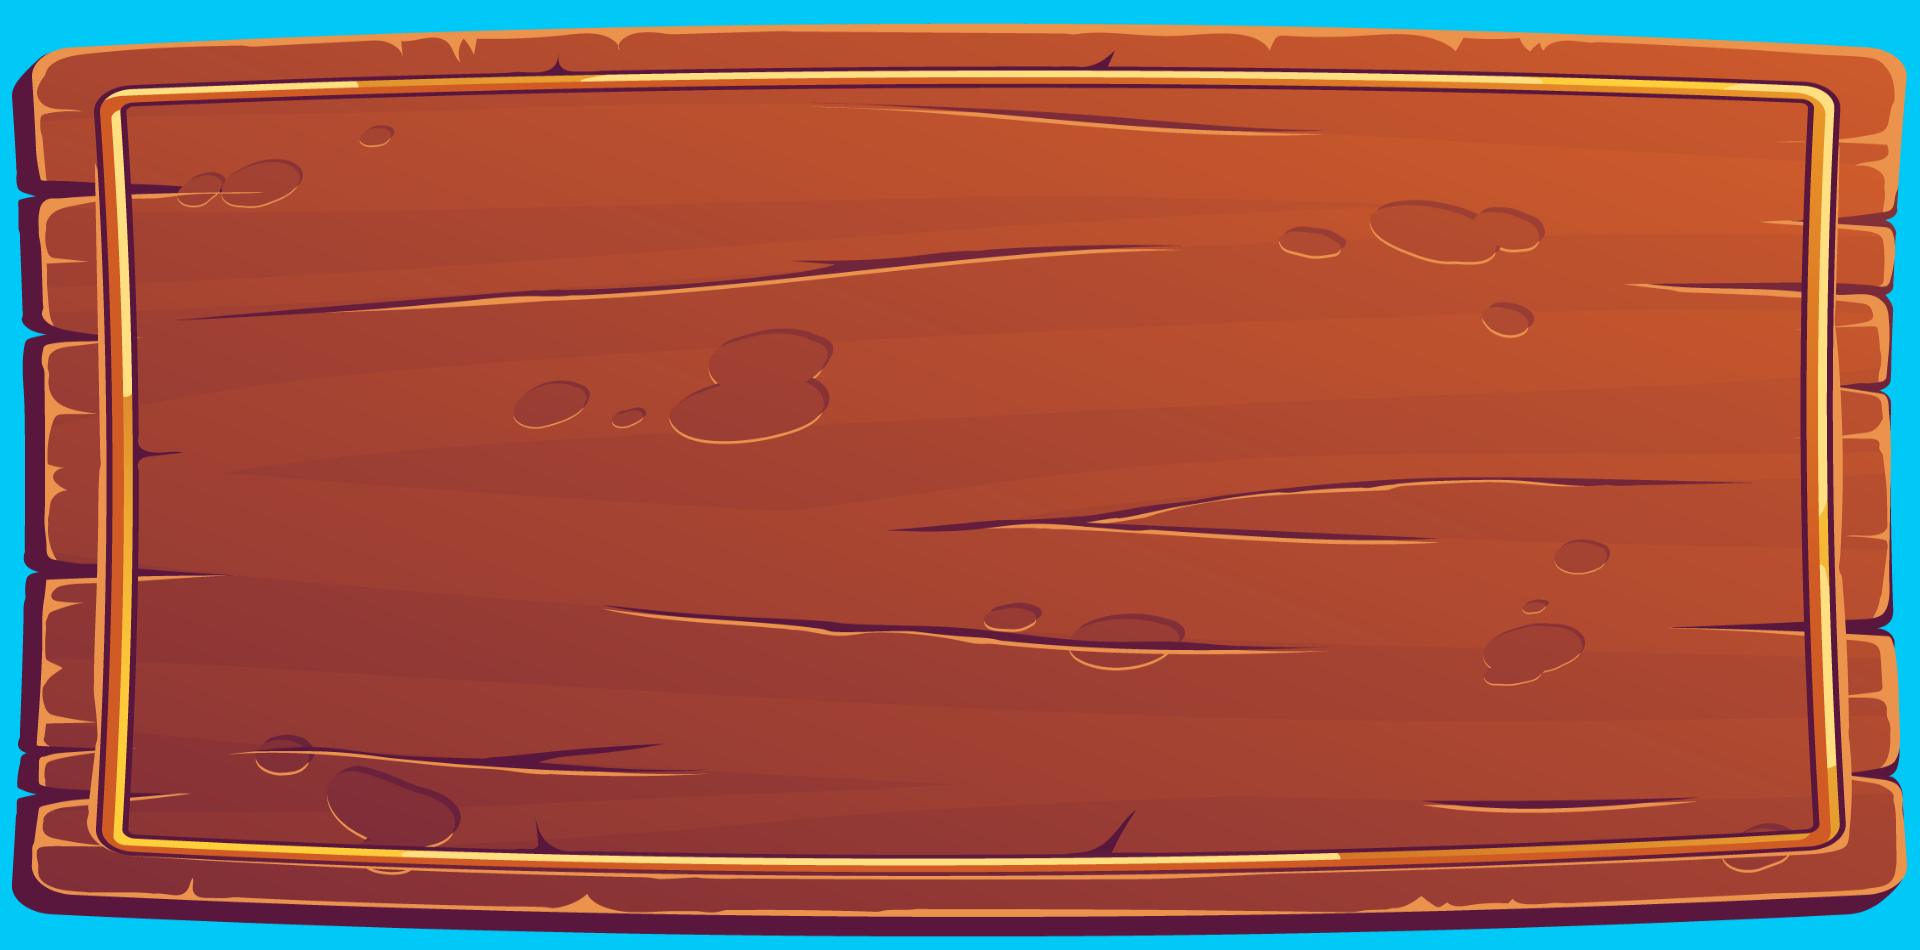
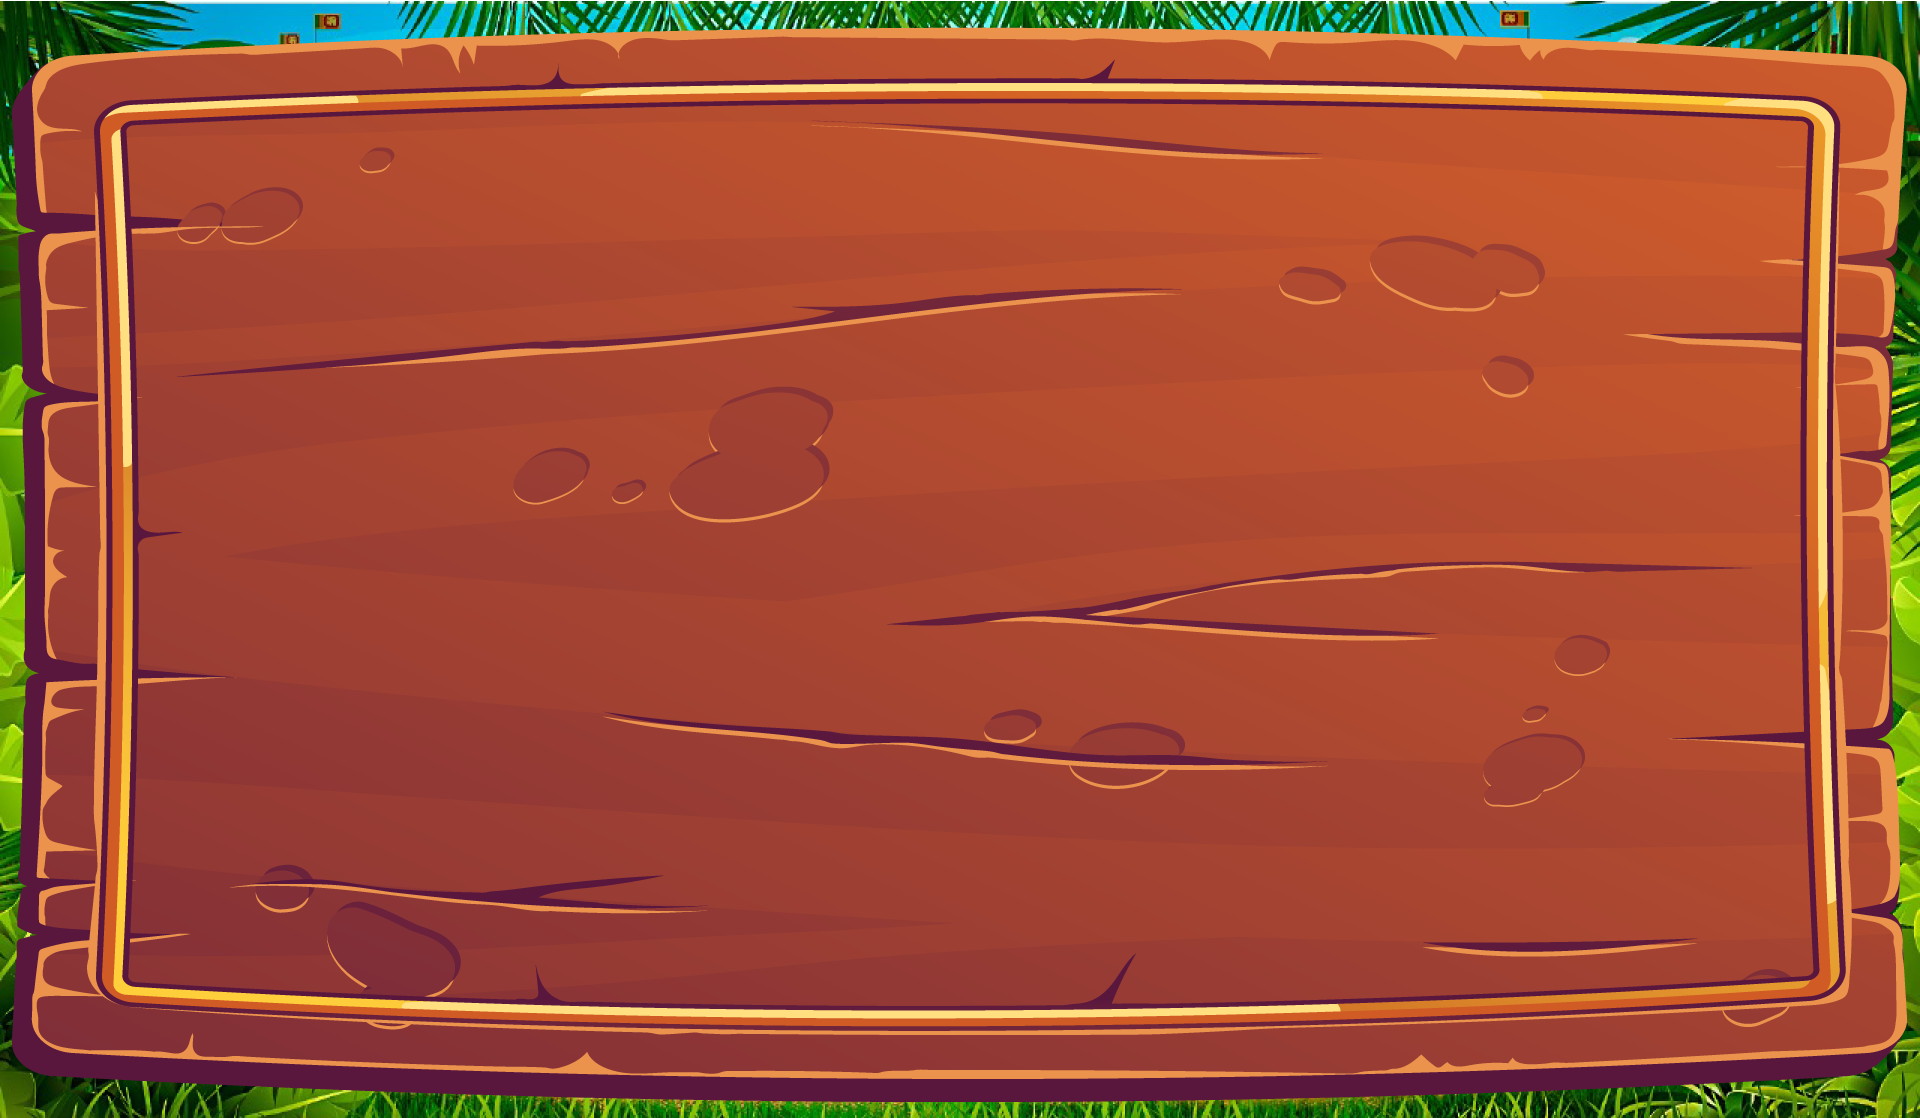
Update background image and size in App.css

Changed region(s): [[0.0, 0.0, 1.0, 1.0]]

diff --git a/questionnaire-app/front-end/src/App.css b/questionnaire-app/front-end/src/App.css
@@ -2,7 +2,7 @@
   margin: 0;
   text-align: center;
   background-image: url(./images/background.png);
-  background-size: 100%;
+  background-size: cover;
   background-repeat: no-repeat;
   height: 100vh;
 }
